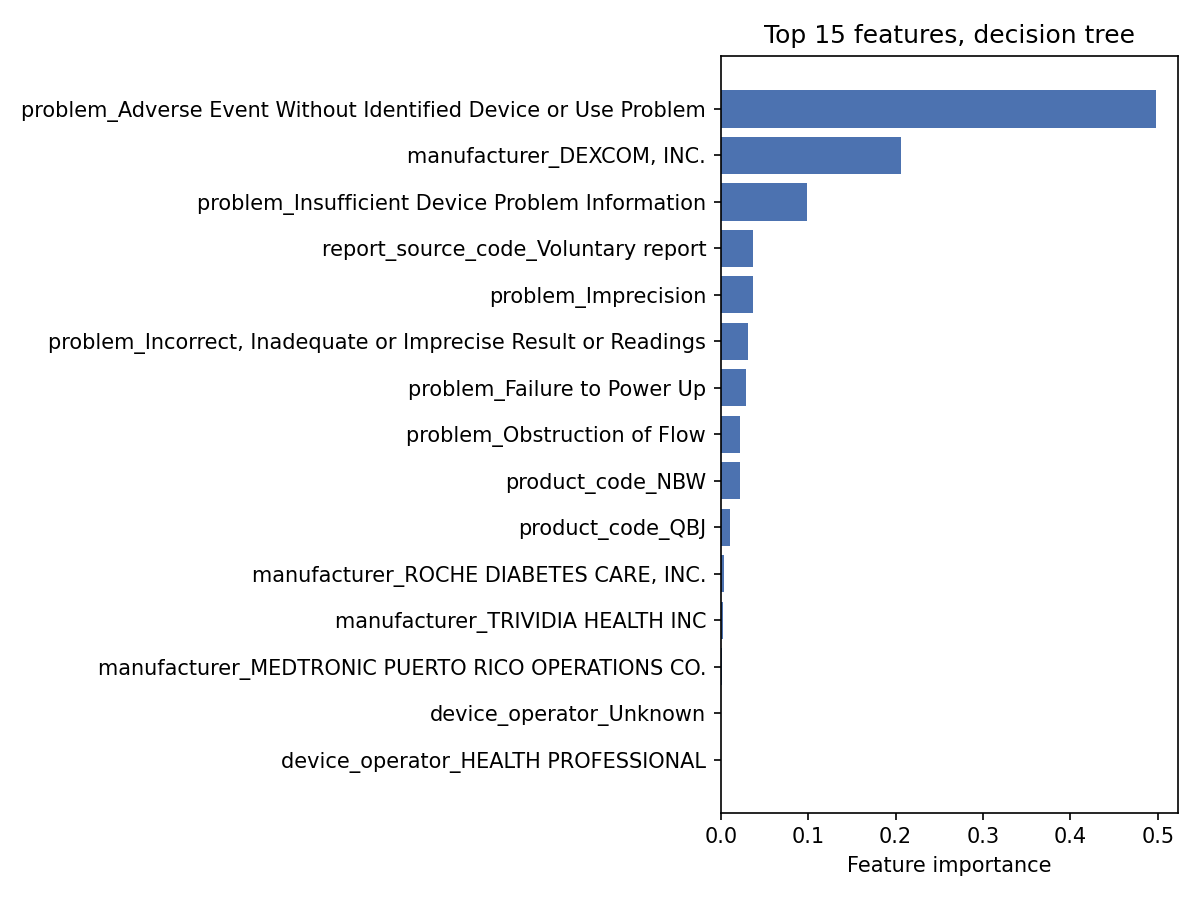
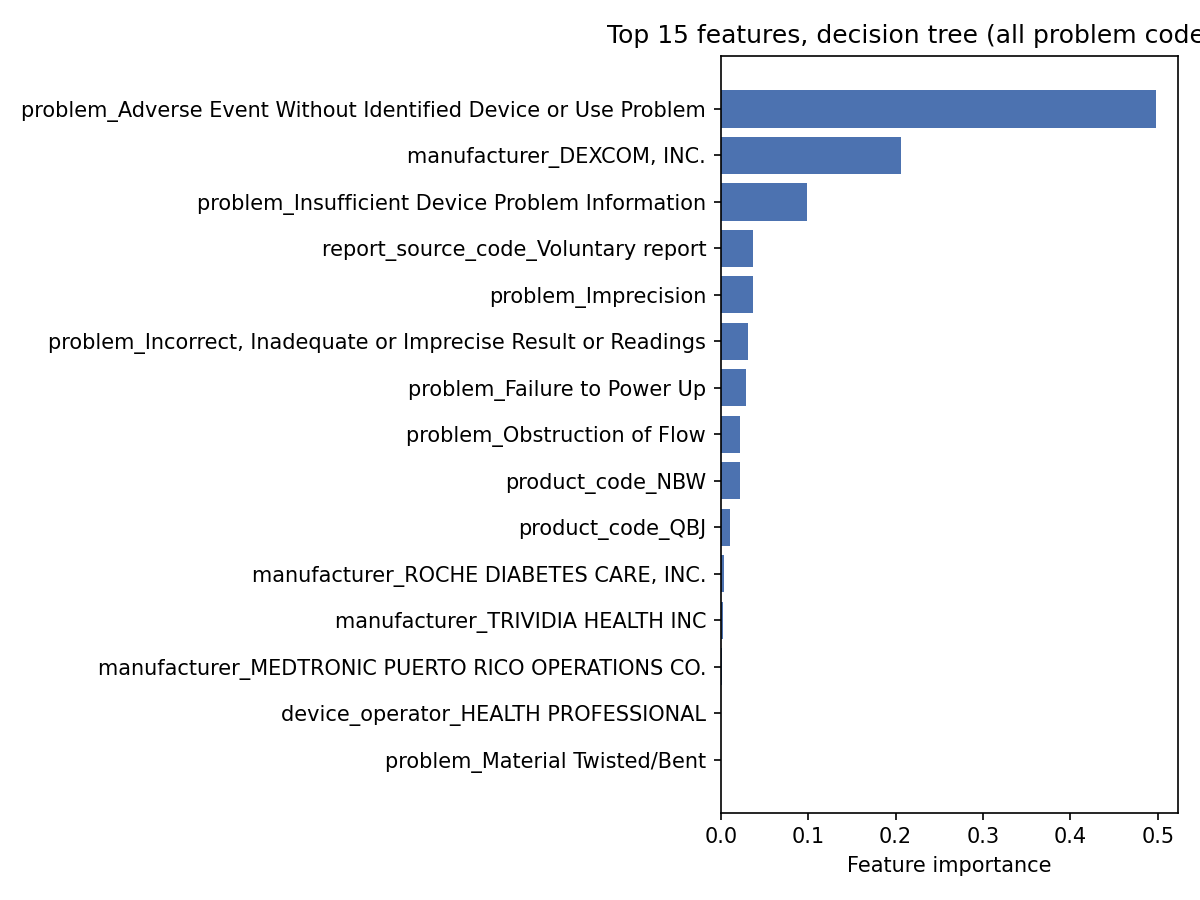
Add --keep-all-problems flag to reproduce leakage figures

Changed region(s): [[0.4933, 0.0311, 1.0, 0.0622], [0.2158, 0.7778, 0.5858, 0.8089], [0.2467, 0.84, 0.5858, 0.8711]]

diff --git a/model.py b/model.py
@@ -55,6 +55,9 @@ n_problems = 30
 drop_problems = ["Adverse Event Without Identified Device or Use Problem",
                  "Insufficient Device Problem Information"]
 max_depth = 6
+# --keep-all-problems turns drop_problems off, to reproduce the leakage figures from our
+# proposal feedback (figures/*_all_problems.png). Not used for any of our results.
+keep_all = False
 
 
 def load():
@@ -106,11 +109,21 @@ def build_features(train, test):
     return X_train, X_test
 
 
+# extra words for plot titles, so each version of a plot says what it shows
+def plot_note():
+    notes = []
+    if "_pumps" in fig_suffix:
+        notes.append("pumps only")
+    if keep_all:
+        notes.append("all problem codes kept")
+    return f" ({', '.join(notes)})" if notes else ""
+
+
 def plot_confusion_matrix(y_test, pred):
     disp = ConfusionMatrixDisplay.from_predictions(
         y_test, pred, display_labels=["Malfunction", "Injury/Death"], cmap="Blues", colorbar=False
     )
-    disp.ax_.set_title("Decision tree, 2024-2025 test set" + (" (pumps only)" if fig_suffix else ""))
+    disp.ax_.set_title("Decision tree, 2024-2025 test set" + plot_note())
     disp.figure_.tight_layout()
     disp.figure_.savefig(fig_dir / f"tree_confusion_matrix{fig_suffix}.png", dpi=150)
     plt.close(disp.figure_)
@@ -121,7 +134,7 @@ def plot_importances(importances):
     fig, ax = plt.subplots(figsize=(8, 6))
     ax.barh(top.index, top.values, color="#4C72B0")
     ax.set_xlabel("Feature importance")
-    ax.set_title("Top 15 features, decision tree" + (" (pumps only)" if fig_suffix else ""))
+    ax.set_title("Top 15 features, decision tree" + plot_note())
     fig.tight_layout()
     fig.savefig(fig_dir / f"tree_feature_importance{fig_suffix}.png", dpi=150)
     plt.close(fig)
@@ -132,6 +145,8 @@ if __name__ == "__main__":
     parser.add_argument("--groups", nargs="+", default=default_groups,
                         choices=list(feature_groups))
     parser.add_argument("--pumps", action="store_true", help="only insulin pump reports")
+    parser.add_argument("--keep-all-problems", action="store_true",
+                        help="don't drop the near-label problem codes (leakage check only)")
     args = parser.parse_args()
     for g in args.groups:
         cat_cols += feature_groups[g]
@@ -143,6 +158,11 @@ if __name__ == "__main__":
         df = df[df["product_code"].isin(pump_codes)]
         fig_suffix = "_pumps"
         print("pumps only:", len(df), "reports")
+    if args.keep_all_problems:
+        keep_all = True
+        drop_problems = []
+        fig_suffix += "_all_problems"
+        print("keeping all problem codes (leakage check, not a result)")
     train, test = split(df)
     print(f"train: {len(train)} rows, injury/death share {train['label'].mean():.3f}")
     print(f"test:  {len(test)} rows, injury/death share {test['label'].mean():.3f}")

diff --git a/tests/test_pipeline.py b/tests/test_pipeline.py
@@ -49,6 +49,15 @@ def test_features_line_up_and_leave_out_the_label(monkeypatch):
     assert "problem_Pumping Stopped" in X_train.columns
 
 
+def test_keep_all_problems_brings_back_the_dropped_codes(monkeypatch):
+    monkeypatch.setattr(model, "cat_cols", model.feature_groups["original"])
+    monkeypatch.setattr(model, "drop_problems", [])
+    train = make_reports([2020, 2021, 2022, 2023])
+    train.loc[train.index[0], "product_problems"] = "Adverse Event Without Identified Device or Use Problem"
+    X_train, _ = model.build_features(train, make_reports([2024, 2025]))
+    assert "problem_Adverse Event Without Identified Device or Use Problem" in X_train.columns
+
+
 def test_spike_detector_flags_big_jump_but_not_tiny_one():
     months = pd.period_range("2020-01", periods=20, freq="M")
     counts = pd.Series([3] * 20, index=months)
